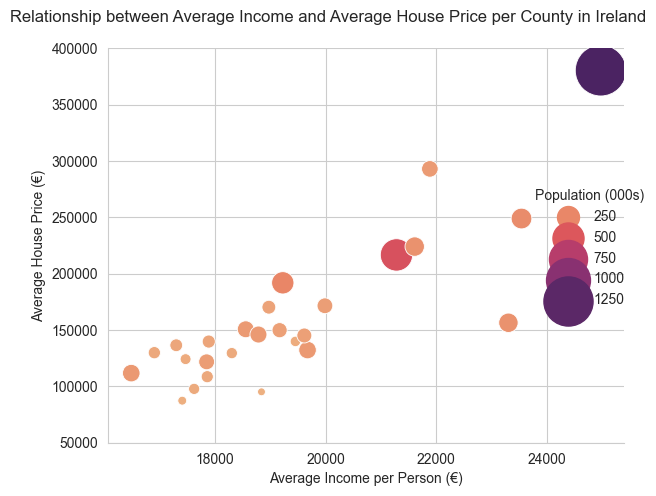
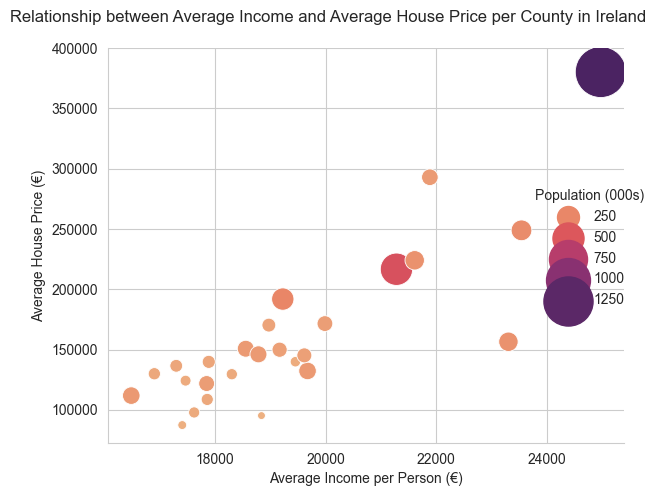
Fifteenth commit

diff --git a/main.py b/main.py
@@ -34,7 +34,8 @@ df_no_dup = df_no_dup.fillna(0)
 
 #count of irish entries in 'Description of Property'
 print(df_no_dup['Description of Property'].value_counts())
-df_no_dup = df_no_dup[df_no_dup['Description of Property'].isin(['Second-Hand Dwelling house /Apartment', 'New Dwelling house /Apartment'])]
+df_no_dup = df_no_dup[df_no_dup['Description of Property'].isin(
+            ['Second-Hand Dwelling house /Apartment', 'New Dwelling house /Apartment'])]
 print(df_no_dup.shape)
 
 #dictionary for mapping county to region
@@ -93,8 +94,6 @@ pop_county = pop_county.append({'Region and County' : 'Cork',
 df2 = df_no_dup.merge(pop_county, left_on='County', right_on='Region and County', how='left')
 del df2['Region and County']
 print(df2.isnull().sum())
-print(df2.shape)
-print(df2.dtypes)
 
 #merging on income
 income = pd.read_excel(r'Income_by_Region.xlsx', skiprows=[0,2])
@@ -108,10 +107,6 @@ del df2['Unnamed: 0']
 print(df2.isnull().sum())
 print(df2.shape)
 
-#grouped summary statistics
-avg_price_per_county = df2.groupby('County')['Price (€)'].mean().sort_values(ascending=False)
-print(avg_price_per_county)
-
 def pivot_to_csv(data, values, index, aggfunc, output_file):
 
     # Create pivot table of summary statistics
@@ -121,9 +116,11 @@ def pivot_to_csv(data, values, index, aggfunc, output_file):
     filename = str(output_file) + '.csv'
     table.to_csv(filename)
 
-pivot_to_csv(df2, 'Price (€)',  ['Region','County'], [np.mean, np.median, np.min, np.max], 'SummStats_Region_County')
+pivot_to_csv(df2, 'Price (€)',  ['Region','County'], [np.mean, np.median, np.min, np.max],
+             'SummStats_Region_County')
 
-pivot_to_csv(df2, 'Price (€)',  ['Region','Description of Property'], np.mean, 'Avg_Price_Region_TypeProperty')
+pivot_to_csv(df2, 'Price (€)',  ['Region','Description of Property'], np.mean,
+             'Avg_Price_Region_TypeProperty')
 
 #bar plot of average price by region and property type
 price_by_region_type = df2.groupby(['Region', 'Description of Property'])['Price (€)'].mean().reset_index()
@@ -203,7 +200,7 @@ maxsize = max(avg_income_house_price['Population (000s)'])
 g = sns.relplot(x='Average Income per Person (€)', y='Average House Price (€)', data=avg_income_house_price, kind='scatter',
             size='Population (000s)', sizes=(minsize, maxsize), hue='Population (000s)', palette=palette)
 
-g.set(ylim=(50000, 400000))
+g.set(ylim=(None, 400000))
 g.fig.suptitle('Relationship between Average Income and Average House Price per County in Ireland')
 
 plt.tight_layout(pad=1.0)
